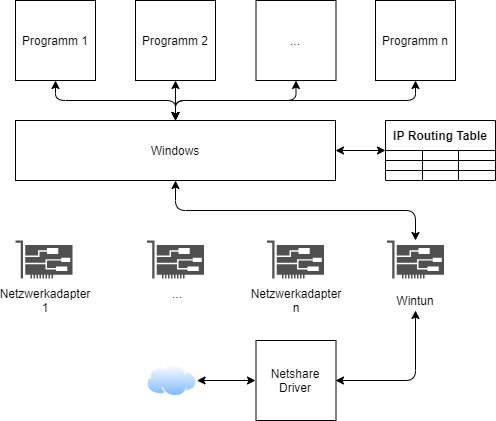
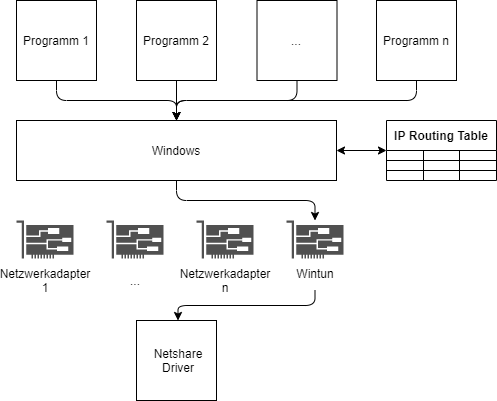
added pages

diff --git a/driver.tex b/driver.tex
@@ -11,7 +11,7 @@ Der Treiber ist dafür verantwortlich Pakete aus Windows zu dem Server zu senden
 \end{itemize}
 Außerdem müssen gewisse Standards von Performance, Stabilität und Ressourcenintensität gehalten werden. Dabei haben wir versucht folgende Metriken einzuhalten:
 \begin{itemize}
-    \item Maximale prozentuale CPU Auslastung von 3 \%, bei einer 100 MB/s Übertragungsrate auf einem (Prozessor von Tests einsetzten)
+    \item Maximale prozentuale CPU Auslastung von 3 \%, bei einer 100 Mbit/s Übertragungsrate auf einem (Prozessor von Tests einsetzten)
     \item Maximaler Speicherverbrauch von 300 Mega Byte bei Verwendung von 2 übertragenen Netzwerkadaptern über eine Dauer von 30 Minuten.
     \item Wenn es zum Absturz des Treibers kommen sollte, darf das Betriebssystem nicht mit abstürzen.
     \item Der Treiber sollte weiter funktionieren, auch wenn während des Betriebs ein Netzwerkadapter ausfällt.
@@ -40,21 +40,21 @@ Nach diesen 2 Schritten werden von Programmen gesendete Pakete, von Windows mith
 \end{figure}
 \newpage
 \subsection{Kommunikation zwischen Treiber und Server}
-Der Treiber kann jetzt Pakete von Windows erhalten und muss diese jetzt an den Server schicken. Hierzu war die erste Entscheidung, die wir fällen haben mussten, auf welche Art wir die Pakete an den Server schicken. Dabei hatten wir zwei Möglichkeiten, die erste ist das wir Wintun zum Senden und Empfangen der Pakete vom Server benutzen oder wir erstellen einen Socket und lassen über diesen die Kommunikation mit dem Server laufen.
+Der Treiber kann jetzt Pakete von Windows erhalten und muss diese an den Server schicken. Hierzu war die erste Entscheidung, die wir fällen mussten, auf welche Art wir die Pakete an den Server schicken. Dafür hatten wir zwei Möglichkeiten. Wir verwenden Wintun zum Senden und Empfangen der Pakete vom Server oder wir erstellen einen Socket und lassen über diesen die Kommunikation mit dem Server laufen.
 \newline
 \newline
-Wenn, wir Wintun verwenden würden hätten wir den Vorteil das wir keine weitere externe Bibliothek benutzen müssten und das wir eine höhere Performance hätten, weil wir Pakete von Schicht 3 versenden würde und uns dadurch eine Schicht beim Senden sparen würden.
+Wenn, wir Wintun verwenden haben wir den Vorteil das wir keine weitere externe Bibliothek benutzen müssen und eine höhere Performance haben, weil wir Pakete von OSI Schicht 3 versenden und uns dadurch eine Schicht beim Senden sparen.
 \newline
 \newline
-Der Grund warum wir uns aber dazu entschieden haben Sockets zu nutzen ist der Programmieraufwand. Wir hätten zwar bei Wintun eine Performance Steigerung jedoch würde es auch Bedeuten, dass wir uns mit dem Aufbau der einzelnen IP Pakete beschäftigen müssen. Was alleine auch nicht allzu schlimm gewesen wäre, wenn wir uns nicht auch noch um die Firewalls kümmern müssten. Dadurch das Firewalls weiter oben im OSI Modell angelegt sind als unser TUN Gerät, müssen wir beim Empfangen von Paketen sichergehen, das die Firewall diese nicht wegwirft. Das heißt, wir müssten Windows mitteilen, dass wir einen gewissen Port benutzen und Pakete von einer gewissen IP-Adresse erwarten. Aus diesen beiden Gründen und durch unseren bestehenden Zeitdruck haben wir uns dazu entschieden eine Socket Bibliothek zu verwenden.
+Der Grund warum wir uns aber dazu entschieden haben Sockets zu nutzen ist der Programmieraufwand. Wir haben zwar bei Wintun eine Performance Steigerung jedoch würde es auch bedeuten, dass wir uns mit dem Aufbau der einzelnen IP Pakete beschäftigen müssen. Was alleine akzeptabel wäre, wenn wir uns nicht auch noch um die Firewalls kümmern müssten. Dadurch das Firewalls weiter oben im OSI Modell angelegt sind als unser TUN Gerät, müssen wir beim Empfangen von Paketen sicherstellen, das die Firewall diese nicht wegwirft. Das heißt, wir müssen Windows mitteilen, dass wir einen gewissen Port benutzen und Pakete von einer gewissen IP-Adresse erwarten. Aus diesen beiden Gründen und durch unseren bestehenden Zeitdruck haben wir uns dazu entschieden eine Socket Bibliothek zu verwenden.
 \newline
 \newline
 Für die Socket Bibliothek haben wir uns dann für die Windows Sockets 2 API entschieden, weil diese von Microsoft für das Performante verwenden von Sockets unter Windows entwickelt wurde. Außerdem haben wir den Vorteil das wir die Bibliothek nicht selber verwalten müssen, weil diese automatisch von Windows aktualisiert wird.
 \subsection{Pakete auf Programme aufteilen}
-Nachdem wir jetzt Pakete einsammeln können, diese dann an den Server schicken und empfangen können, müssen wir uns nur mehr darum kümmern, dass wir die Pakete aus unserem Treiber wieder an die Programme verteilen können, zu denen sie gehören.
+Nachdem wir jetzt Pakete einsammeln können, diese dann an den Server schicken und empfangen können, müssen wir uns nur mehr sicherstellen, dass wir die Pakete aus unserem Treiber wieder an die Programme verteilen können, zu denen sie gehören. 
 \newline
 \newline
-Hierfür machen wir uns wieder Wintun zu nutzen, indem wir die Pakete, die wir bekommen haben, nehmen und einfach über unser Wintun Gerät senden. Windows erkennt dann, dass das Paket an sich selbst gerichtet ist und verarbeitet es als wäre es von einem normalen Adapter gekommen. Durch diese Art der Aufteilung lagern wir den meisten Programmieraufwand an Windows aus und können auch für eine hohe Performance garantieren.
+Hierfür machen wir uns wieder Wintun zu nutzen, indem wir die Pakete, die wir bekommen haben, nehmen und einfach über unser Wintun Gerät senden. Windows erkennt dann, dass das Paket an sich selbst gerichtet ist und verarbeitet es als wäre es von einem normalen Netzwerk Adapter gekommen. Durch diese Art der Aufteilung lagern wir den meisten Programmieraufwand an Windows aus und können auch für eine hohe Performance garantieren.
 \newpage
 Fügt man nun alle 3 Überlegungen zusammen, kommt man auf Folgendes:
 \begin{figure}[H]
@@ -62,3 +62,69 @@ Fügt man nun alle 3 Überlegungen zusammen, kommt man auf Folgendes:
     \includegraphics[width=0.8\textwidth]{kommunikation_mit_internet.png}
     \caption[Kommunikation mit Server]{Kommunikation mit Server \footnotemark[1]{Vgl. \ref{kommunikationMitInternet}}} 
 \end{figure}
+\newpage
+\section{Implementierung der Architektur}
+\subsection{Senden und Empfangen von Paketen}
+\subsubsection{Erstellen des Eintrags in die IP Routing Tabelle}
+Bevor wir überhaupt testen haben können, ob wir Pakete von Windows empfangen können müssen wir einen Eintrag in den IP Routing Table eintragen. Am Anfang haben wir diese per Hand über das Programm \textbf{route} gemacht. Dieses Bietet ein einfaches Interface um über die Konsole Einträge zu verwalten. Der Befehl, den wir dazu verwendet haben schaut, folgendermaßen aus:
+\begin{program}[H]
+\caption{Route - Beispiel}
+\begin{GenericCode}
+route add 0.0.0.0 mask 0.0.0.0 10.0.0.1 metric 7 if 21  
+\end{GenericCode}
+\end{program}
+Wenn wir uns die IP Routing Tabelle nun anzeigen lassen sehen wir das folgender Eintrag erstellt wurde.
+\begin{figure}[H]
+    \centering
+    \includegraphics[width=1\textwidth]{ip_routing_table_entry.png}
+    \caption[IP Routing Table Eintrag]{IP Routing Table Eintrag \footnotemark[1]{Vgl. \ref{flasklogo}}} 
+\end{figure}
+In diesem Ausschnitt können wir zwei Einträge sehen. Der erste ist der Eintrag für das Standardgateway das gerade ausgewählt ist und der zweite ist der Eintrag, den wir gerade eben erstellt haben. 
+\newline
+\newline
+Wir können sehen das beide Eintrage als \textbf{Netzwerkziel} und als \textbf{Netzwerkmaske} die gleichen Werte haben. Das ist so, weil beide Einträge die gleiche Gruppe von IP Paketen umleiten wollen. Routen die als Netzwerkziel und als Netzwerkmaske \textbf{0.0.0.0} haben werden Standard Routen angesehen, das heißt das alle IP Pakete, die nicht von einer genaueren Route umgeleitet werden, von dieser Regel beeinflusst wird\footnote[1]{\url{https://www.techopedia.com/definition/2184/default-gateway}, 2021-02-01 17:58 MEZ}.
+\newline
+\newline
+Die Gateway-IP-Adresse gibt an welche Adresse die IP-Pakete weitergeleitet werden sollen. In dem Fall von unserem Eintrag ist das die IP-Adresse des Virtuellen Netzwerkadapters. Bei dem Eintrag, der bereits vorhanden ist, ist die interne IP-Adresse meines Routers eingetragen.
+\newline
+\newline
+Die Schnittstelle gibt an über welchen Netzwerkadapter die Pakte verschickt. Bei unserem Eintrag ist es \textit{10.0.0.3}, weil dies die Adresse ist die unser Wintun Netzwerkadapter zugewiesen bekommen hat. Beim anderen Eintrag ist die IP-Adresse zu sehen die zurzeit als Standardgateway eingestellt ist. 
+\newline
+\newline
+Als Letztes muss noch die Metrik eingestellt werden. Diese bestimmt welcher Eintrag verwendet wird. Die Metrik wird benutzt, wenn es für ein IP-Paket mehrere passende Einträge gibt. In solch einem Fall wird die Metrik mit der geringsten Metrik gewählt\footnote[2]{\url{https://docs.microsoft.com/en-us/windows-server/administration/windows-commands/route_ws2008}, 2021-01-16 23:30 MEZ}.
+\newpage
+Später in der Entwicklung haben aber eine programmatische Lösung gebraucht, weil wir nicht davon ausgehen können, dass alle Endnutzer genügend technische Kenntnisse haben, um die Route selber einzustellen. Deswegen benutzen wir Funktionen aus der \textbf{iphlpapi.h}\footnote[1]{\url{https://docs.microsoft.com/en-us/windows/win32/api/iphlpapi/}, 2021-02-01 17:14 MEZ} Bibliothek. Diese stellt Funktionen zu auslesen und bearbeiten des IP Routing Tables zur Verfügung.
+\newline
+\newline
+Bevor wir eine Verbindung mit dem Server aufbauen lesen wir also den IP Routing Table aus und speichern das derzeitige Standardgateway zwischen und löschen es danach aus der Tabelle. Jetzt wird ein neuer Eintrag erstellt, der alle IP-Pakete durch unseren Netzwerkadapter an unseren Server schickt.
+\newline
+\newline
+Wenn die Verbindung wieder abgebaut werden soll, löschen wir den von uns erstellten Eintrag wieder, lesen das zwischengespeicherte Standardgateway wieder aus und fügen es in den IP Routing Table ein.
+\newline
+\newline
+Um sicherzustellen das, selbst wenn das Programm unerwartet abstürzt, das alte Standardgateway wieder hergestellt werden kann, speichern wir dieses in einer Datei. Diese wird beim Start des Programms ausgelesen und wenn kein Standardgateway gesetzt ist, wird dies aus der Datei wieder hergestellt. Um zu verhindern, dass das Standardgateway neu gesetzt wird, obwohl kein Absturz geschehen ist, wird die Datei nach einem erfolgreichen Verbindungsabbau wieder gelöscht.
+\subsubsection{Empfangen von Paketen}
+Nachdem jetzt sichergestellt wurde, dass alle IP-Pakete, die nicht an das interne Netzwerk gerichtet sind, an unser TUN Netzwerkadapter gesendet werden. Müssen wir diese auslesen und zur Weiterverarbeitung zwischenspeichern.
+\newline
+\newline
+Hierzu erstellen wir, falls noch keiner Vorhanden ist, einen virtuellen Wintun Netzwerkadapter. Dieser Netzwerkadapter spiegelt ein TUN Treiber wider, das bedeutet das er OSI Layer 3 Pakete weiterverarbeitet. Der Treiber läuft im Kernal Mode\footnote[1]{\url{https://git.zx2c4.com/wintun/tree/driver/wintun.inf}, 2021-02-02 18:25 MEZ} verarbeitet aber Pakete selber nicht, sondern speichert diese in einem Ring Puffer zwischen\footnote[2]{\url{https://git.zx2c4.com/wintun/tree/driver/wintun.c}, 2021-02-02 18:24 MEZ} wo sie von einem sich im Users Mode befindenden Programm weiterverarbeitet werden können. Das hat den großen Vorteil das wir keinen Low Level Windows Code schreiben müssen, wir können davon ausgehen, dass der Treiber stabil läuft und die Integrität des Betriebssystems nicht negativ beeinflusst. Jedoch hat es den Nachteil das der Code, der für das Verarbeiten von dem IP Paketen zuständig ist, im User Mode läuft, welcher wesentlich langsamer ist als der Kernel Mode. Weil Programme die im User Mode laufen immer wieder auf Funktionen zugreifen müssen die nur im Kernel Mode ausgeführt werden können, müssen diese dann einen Ressourcen aufwendigen Context Switch durchführen\footnote[3]{\url{https://docs.microsoft.com/en-us/windows-hardware/drivers/gettingstarted/user-mode-and-kernel-mode}, 2021-02-02 18:32 MEZ}.
+\newline
+\newline
+Nachdem wir sichergestellt haben, dass es unseren Netzwerkadapter gibt versuchen wir einen Handle auf ihn zu bekommen. In Windows repräsentiert ein Handle eine Ressource auf das ein Programm zugreifen will\footnote[1]{\url{https://docs.microsoft.com/en-us/windows/win32/sysinfo/about-handles-and-objects}, 2021-02-02 18:41 MEZ}. Das heißt durch Handles hat Windows einen Weg sicherzustellen das zum Beispiel auf Dateien nicht zweimal schreiben Zugegriffen wird. Wir fordern also einen Handle für unseren Netzwerkadapter an um Operationen an ihm durchführen zu können.
+\newline
+\newline
+Mit dem Adapter Handle, den wir angefordert haben, können wir diesen nun einstellen so wie wir ihn benötigen. Wir stellen also die IP-Adresse, die uns zugewiesen wurde und die dazugehörigen Subnetbits ein. Danach ist der Netzwerkadapter fertig eingestellt und könnte theoretisch Daten empfangen.
+\newline
+\newline
+Der Netzwerkadapter ist aber noch nicht “eingeschalten” dazu müssen wir eine Session erstellen. In dieser Session können wir einstellen wie groß die Ring Puffer im Treiber sind. Wir haben uns bei der Größe für die maximal von Wintun zugelassene Größe von 64 Mebibyte entschieden. Mithilfe dieser Session können wir, dann anfangen die Pakete, die unser Netzwerkadapter empfangen hat, zu übernehmen und diese weiterzuverarbeiten.
+\subsubsection{Weiterverarbeiten von Paketen}
+Wir können jetzt Pakete von unseren Netzwerkadapter empfangen und diese dann an unser Programm übertragen. Jetzt müssen wir das Paket zwischenlagern und weiterverarbeiten. Dafür haben wir zwei verschiedene Lösungswege ausgedacht. 
+\newline
+\newline
+Der Erste ist, Pakete die Empfangen wurden direkt über einen davor erstellten Socket zum Server zu schicken.  Dieser Ansatz hat zwar den Vorteil des er simpel und einfach zu implementieren ist. Jedoch überwiegen die Nachteile hier die Vorteile. 
+\newline
+\newline
+Ein großer Nachteil ist das, wenn wir ein Paket empfangen und dies an sofort verarbeiten und über einen Socket versenden, keine weiteren Pakete empfangen können bis dieses Paket abgesendet wurde. Der Grund dafür das in diesem Fall der ganze Prozess nur in einem einzigen Thread ablaufen würde und dadurch Zeit, die er zum Empfangen verwenden könnte, für das verarbeiten und senden verwendet.
+\newline
+\newline
+Also haben wir uns dazu entschieden alle diese Schritte in eigene Threads auszulagern. Das heißt wir haben eigene Threads zum Senden, Empfangen und Verarbeiten von Paketen. Damit wir mit mehreren Threads performant arbeiten können brauchen wir einen Lösung, um eine Kommunikation zwischen den einzelnen Threads aufzubauen.
